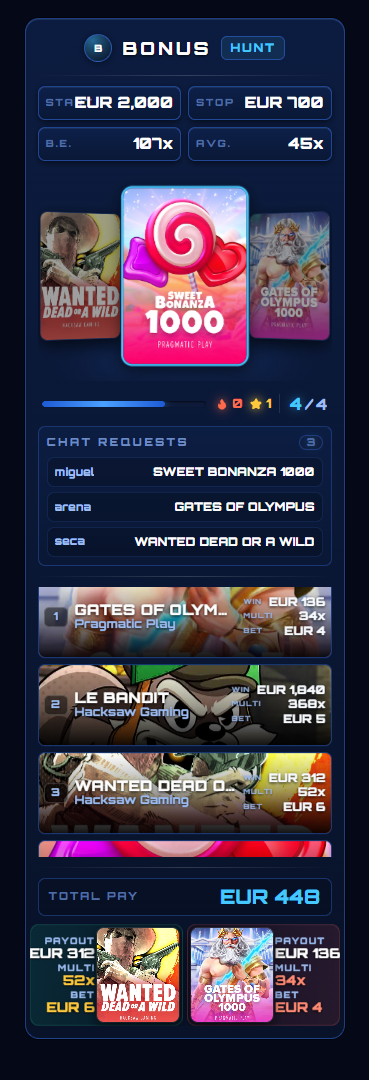
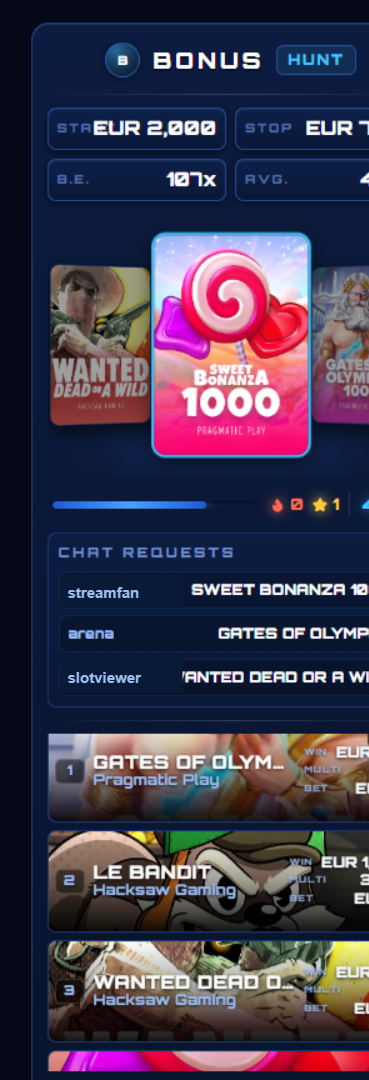
Expand landing widget showcase examples

diff --git a/src/components/LandingPage/LandingPage.jsx b/src/components/LandingPage/LandingPage.jsx
@@ -165,12 +165,17 @@ const TRUST_POINTS = [
 ];
 
 const HOME_WIDGETS = [
-  { title: 'Bonus Hunt', image: '/screenshoots/bonus-hunt.png' },
-  { title: 'Bonus Hunt Result', image: '/screenshoots/rtp-stats.png' },
+  { title: 'Bonus Hunt', image: '/screenshoots/bonus-hunt.png', layout: 'portrait' },
+  { title: 'RTP Stats', image: '/screenshoots/rtp-stats.png', layout: 'wide' },
+  { title: 'Navbar', image: '/screenshoots/navbar.png', layout: 'wide' },
+  { title: 'Bets', image: '/screenshoots/bets.png' },
   { title: 'Connect 4 Game', image: '/screenshoots/connect-four.png' },
   { title: 'Giveaway', image: '/screenshoots/giveaway.png' },
+  { title: 'Chat', image: '/screenshoots/chat.png', layout: 'portrait' },
   { title: 'Shoutout', image: '/screenshoots/raid-shoutout.png' },
   { title: 'Tournament', image: '/screenshoots/tournament.png' },
+  { title: 'Slideshow Frame', image: '/screenshoots/slideshow-frame.png' },
+  { title: 'Animated Background', image: '/screenshoots/background.png' },
 ];
 
 const HOME_STEPS = [
@@ -609,7 +614,7 @@ function HomeLanding({ user, onLogin, onStreamerCta, onPlayerCta }) {
             <button
               key={widget.title}
               type="button"
-              className={`lp-home-widget-card${pinnedWidget?.title === widget.title ? ' is-pinned' : ''}`}
+              className={`lp-home-widget-card lp-home-widget-card--${widget.layout || 'standard'}${pinnedWidget?.title === widget.title ? ' is-pinned' : ''}`}
               aria-pressed={pinnedWidget?.title === widget.title}
               aria-label={`${pinnedWidget?.title === widget.title ? 'Unpin' : 'Pin'} ${widget.title} widget preview`}
               onClick={() => setPinnedWidget((current) => current?.title === widget.title ? null : widget)}
@@ -620,7 +625,7 @@ function HomeLanding({ user, onLogin, onStreamerCta, onPlayerCta }) {
           ))}
         </div>
         {pinnedWidget && (
-          <aside className="lp-home-widget-float" aria-live="polite" aria-label={`${pinnedWidget.title} pinned widget preview`}>
+          <aside className={`lp-home-widget-float lp-home-widget-float--${pinnedWidget.layout || 'standard'}`} aria-live="polite" aria-label={`${pinnedWidget.title} pinned widget preview`}>
             <img src={pinnedWidget.image} alt={`${pinnedWidget.title} pinned widget preview`} />
           </aside>
         )}

diff --git a/src/components/OverlayCenter/editor/betterWidgetRegistry.jsx b/src/components/OverlayCenter/editor/betterWidgetRegistry.jsx
@@ -105,7 +105,7 @@ const MOCK_WIDGET_CONFIGS = {
         {
           id: "mock-quarter-final-1",
           player1: "Brutus",
-          player2: "Miguel",
+          player2: "NOVA",
           slot1: {
             name: "Gates of Olympus 1000",
             image:
@@ -192,17 +192,17 @@ const MOCK_WIDGET_CONFIGS = {
     stopLoss: 700,
     currency: "EUR ",
     requests: [
-      { username: "miguel", slotName: "Sweet Bonanza 1000" },
+      { username: "streamfan", slotName: "Sweet Bonanza 1000" },
       { username: "arena", slotName: "Gates of Olympus" },
-      { username: "seca", slotName: "Wanted Dead or a Wild" },
+      { username: "slotviewer", slotName: "Wanted Dead or a Wild" },
     ],
   },
   giveaway: {
     title: "Giveaway #1",
     prize: "10 EUR",
     subtitle: "42 players entered",
-    keyword: "iseca",
-    participants: ["brutus", "osecaadegas", "arena", "secalive"],
+    keyword: "join",
+    participants: ["streamfan", "nightowl", "arena", "luckyspin"],
     entriesCount: 42,
     winner: "",
   },
@@ -214,7 +214,7 @@ const MOCK_WIDGET_CONFIGS = {
     showCasino: true,
     showStartBalance: true,
     startValue: "EUR 2000",
-    casinoName: "SecaHub",
+    casinoName: "Demo Casino",
     casinoCommand: "!Casino",
     __mockNowPlaying: {
       artist: "Streamers Center",
@@ -227,9 +227,9 @@ const MOCK_WIDGET_CONFIGS = {
     youtubeEnabled: false,
     kickEnabled: false,
     __appearancePreviewMessages: [
-      { user: "miguel", text: "the hunt is live" },
+      { user: "streamfan", text: "the hunt is live" },
       { user: "arena", text: "!bet 2" },
-      { user: "secalive", text: "good luck everyone" },
+      { user: "nightowl", text: "good luck everyone" },
       { user: "chat", text: "that rtp bar is clean" },
     ],
   },
@@ -271,9 +271,9 @@ const MOCK_WIDGET_CONFIGS = {
       opt_4: 215,
     },
     betters: {
-      miguel: { option: 1, amount: 300 },
+      streamfan: { option: 1, amount: 300 },
       arena: { option: 2, amount: 180 },
-      seca: { option: 1, amount: 220 },
+      nightowl: { option: 1, amount: 220 },
       chat: { option: 0, amount: 80 },
     },
   },

diff --git a/src/components/OverlayCenter/appearance/previewWidgetSamples.js b/src/components/OverlayCenter/appearance/previewWidgetSamples.js
@@ -22,7 +22,7 @@ const SAMPLE_TOURNAMENT_MATCHES = [
   {
     id: "preview-tournament-1",
     player1: "Brutus",
-    player2: "Miguel",
+    player2: "NOVA",
     slot1: {
       name: "Gates of Olympus 1000",
       image: "",
@@ -99,7 +99,7 @@ const SAMPLE_GIVEAWAY_PARTICIPANTS = [
   "Carolina",
   "Duarte",
   "Ines",
-  "Miguel",
+  "NOVA",
   "Rafa",
   "Sofia",
 ];
@@ -116,7 +116,7 @@ const SAMPLE_SLOT_REQUESTS = [
     id: "preview-sr-2",
     slot_name: "Le Digger",
     slot_image: "",
-    requested_by: "miguel",
+    requested_by: "streamfan",
     created_at: "2026-07-16T10:01:00.000Z",
   },
   {
@@ -148,7 +148,7 @@ const SAMPLE_CHAT_MESSAGES = [
   {
     id: "preview-chat-2",
     platform: "kick",
-    username: "miguel",
+    username: "nightowl",
     message: "Edit header, message row, name, badges and text separately.",
     color: "#22c55e",
     timestamp: Date.now() - 9000,
@@ -423,14 +423,14 @@ function applyGiveawayPreviewSample(config = {}) {
     if (previewState === "drawing") {
       return {
         ...base,
-        spinningWinner: "Miguel",
+        spinningWinner: "NOVA",
         isActive: false,
       };
     }
     if (previewState === "winner") {
       return {
         ...base,
-        winner: "Miguel",
+        winner: "NOVA",
         isActive: false,
       };
     }

diff --git a/src/components/LandingPage/LandingPage.css b/src/components/LandingPage/LandingPage.css
@@ -1733,6 +1733,20 @@
   box-shadow: 0 0 0 2px rgba(56, 189, 248, 0.36), 0 22px 52px rgba(0, 0, 0, 0.4);
 }
 
+.lp-home-widget-card--wide {
+  grid-column: 1 / -1;
+}
+
+.lp-home-widget-card--wide:focus-visible {
+  transform: translateY(-8px) scale(1.03);
+}
+
+@media (hover: hover) {
+  .lp-home-widget-card--wide:hover {
+    transform: translateY(-8px) scale(1.03);
+  }
+}
+
 .lp-home-widget-card h3 {
   margin-bottom: 8px;
   text-align: center;
@@ -1748,6 +1762,14 @@
   background: rgba(2, 6, 23, 0.82);
 }
 
+.lp-home-widget-card--wide img {
+  aspect-ratio: 12 / 1;
+}
+
+.lp-home-widget-card--portrait img {
+  object-position: center top;
+}
+
 .lp-home-widget-float {
   position: fixed;
   right: 24px;
@@ -1756,6 +1778,14 @@
   pointer-events: none;
   z-index: 1000;
   animation: lp-widget-float-in 180ms ease-out;
+}
+
+.lp-home-widget-float--wide {
+  width: min(1245px, calc(100vw - 48px));
+}
+
+.lp-home-widget-float--portrait {
+  width: min(440px, calc(100vw - 48px));
 }
 
 .lp-home-widget-float img {

diff --git a/src/components/OverlayCenter/setup/ConnectServicesStep.jsx b/src/components/OverlayCenter/setup/ConnectServicesStep.jsx
@@ -263,7 +263,7 @@ export default function ConnectServicesStep({
             <Field label="Connected Twitch account" help="Filled from your authenticated Twitch profile when available.">
               <input value={twitchLogin || 'Not connected'} readOnly />
             </Field>
-            <Field label="Twitch channel/login" help="The channel where viewers type commands." example="osecaadegas">
+            <Field label="Twitch channel/login" help="The channel where viewers type commands." example="demo_channel">
               <input value={normalized.twitchChannel} onChange={event => patch({ twitchChannel: event.target.value })} placeholder="yourchannel" />
             </Field>
             <Field label="Display name" help="Shown only to help you confirm the right account.">

diff --git a/src/components/OverlayCenter/widgets/slot-requests/styles/compact-editable/compactEditable.previewData.js b/src/components/OverlayCenter/widgets/slot-requests/styles/compact-editable/compactEditable.previewData.js
@@ -12,7 +12,7 @@ export const compactEditablePreviewData = Object.freeze({
       id: 'editable-preview-sr-2',
       slot_name: 'Le Digger',
       slot_image: 'https://images-cdn.softswiss.net/i/s2/hacksaw/LeDigger.png',
-      requested_by: 'miguel',
+      requested_by: 'streamfan',
     }),
     Object.freeze({
       id: 'editable-preview-sr-3',

diff --git a/src/components/OverlayCenter/widgets/bonus-hunt/styles/classic-requests-editable/classicRequestsEditable.previewData.js b/src/components/OverlayCenter/widgets/bonus-hunt/styles/classic-requests-editable/classicRequestsEditable.previewData.js
@@ -12,7 +12,7 @@ export const classicRequestsEditablePreviewData = Object.freeze({
       id: 'bh-v12-request-2',
       slot_name: 'Le Digger',
       slot_image: 'https://images-cdn.softswiss.net/i/s2/hacksaw/LeDigger.png',
-      requested_by: 'miguel',
+      requested_by: 'streamfan',
     }),
     Object.freeze({
       id: 'bh-v12-request-3',

diff --git a/src/components/OverlayCenter/editor/standardWidgetPresets.js b/src/components/OverlayCenter/editor/standardWidgetPresets.js
@@ -170,7 +170,7 @@ export const STANDARD_BETTER_WIDGET_CONTROLS = Object.freeze({
     title: "Giveaway #1",
     prize: "10$ MBway",
     subtitle: "(min 30 Participants)",
-    keyword: "iseca",
+    keyword: "join",
     surface: "matte",
     hue: 210,
     hueShift: 24,

diff --git a/src/components/OverlayCenter/editor/BetterWidgetPackages.jsx b/src/components/OverlayCenter/editor/BetterWidgetPackages.jsx
@@ -709,7 +709,7 @@ const BASE_BETTER_CONFIG = {
     title: "Giveaway #1",
     prize: "10$ MBway",
     subtitle: "(min 30 Participants)",
-    keyword: "iseca",
+    keyword: "join",
     surface: "matte",
     hue: 195,
     hueShift: 10,
